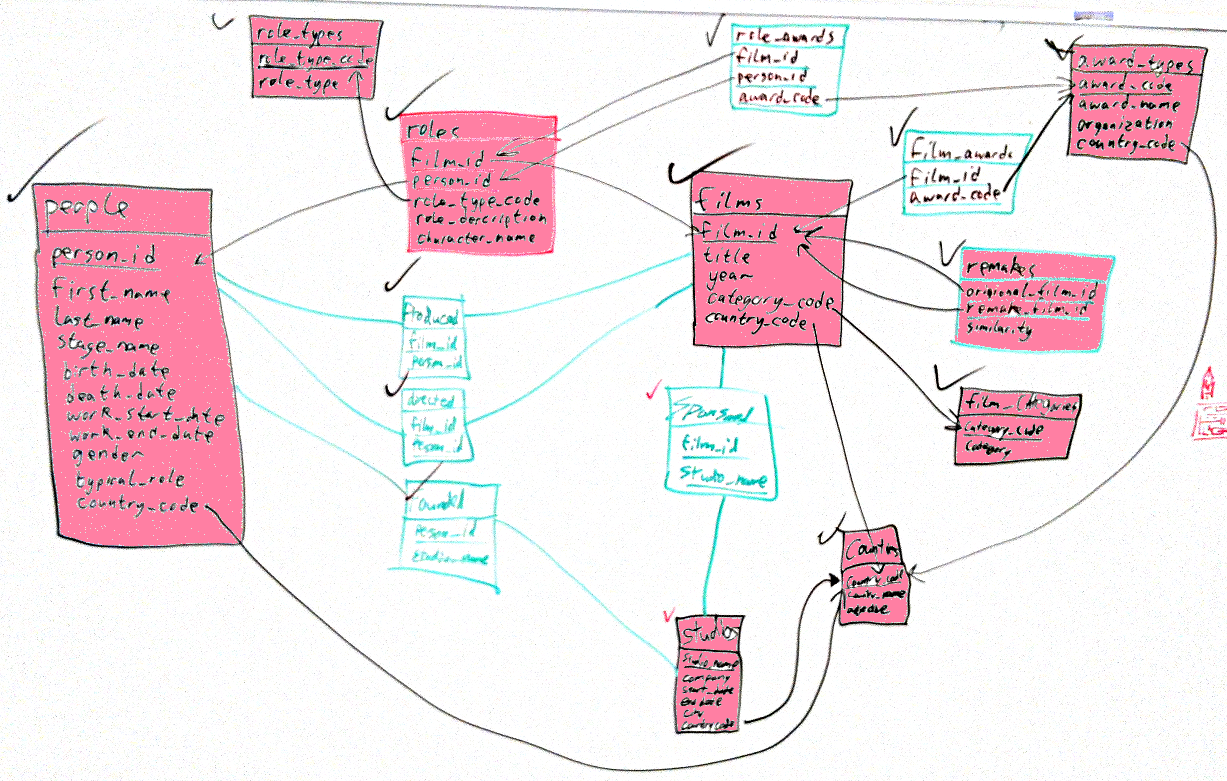
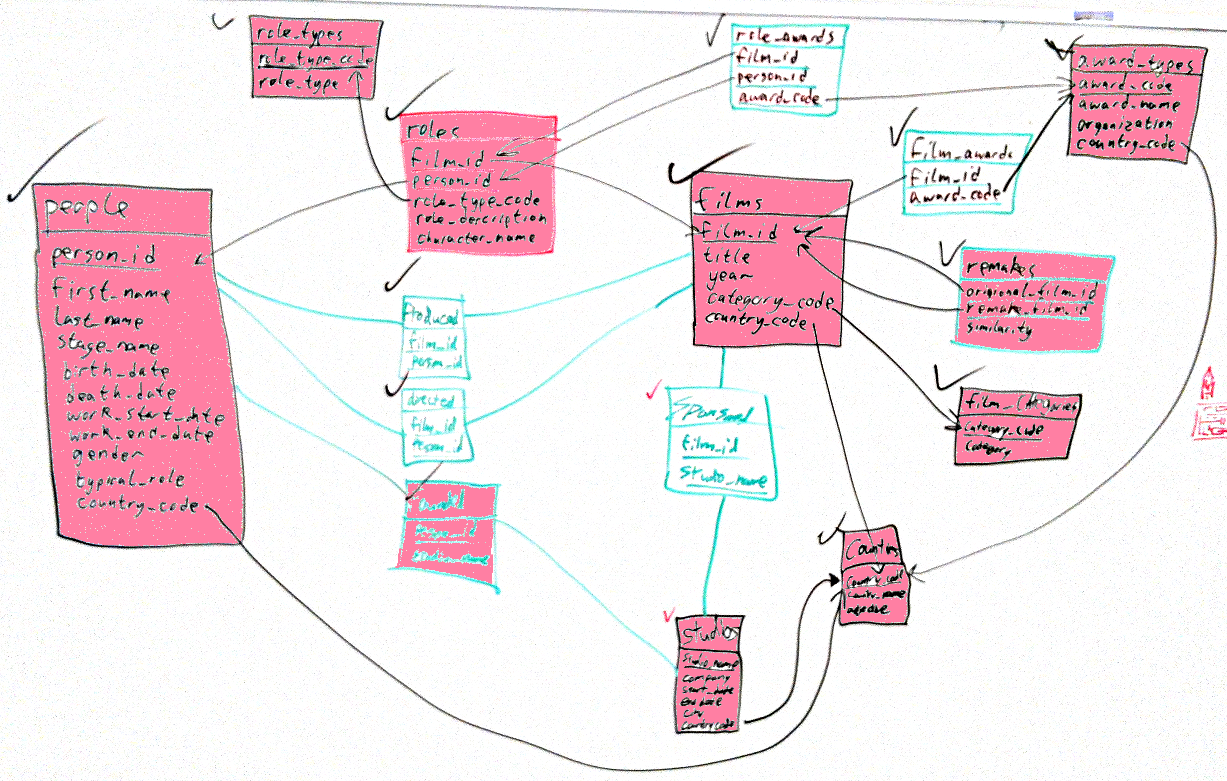
loaded founders

Changed region(s): [[0.3097, 0.6146, 0.4026, 0.7682]]

diff --git a/studios/load founders.py b/studios/load founders.py
@@ -17,7 +17,7 @@ founders = [('20th Cent.', 'Darryl Zanuck'), ('35mm Film Camera', 'Thomas Edison
 ('LionsGate', 'Mark Urman'), ('London Films', 'Alex Korda'), ('Lorimar', 'Lee Rich'), 
 ('Lubitsch', 'Ernst Lubitsch'), ('Malpaso', 'Clint Eastwood'), ('MGM', 'Bought Loews'), 
 ('MGM-U.A', 'Kirk Kerkorian'), ('Miramax', 'Weinstein'), ('NEF', 'J. Renoir'), ('NEF', 'Andre Zwobada'), 
-('NEF', 'Camille Froancois'), ('NEF', 'Olivier Billiou'), ('NEF', 'C. Renoir '), ('NWP', 'Corman'), 
+('NEF', 'Camille Froancois'), ('NEF', 'Olivier Billiou'), ('NEF', 'C. Renoir'), ('NWP', 'Corman'), 
 ('Paramount', 'William Wadworth Hodkinson'), ('Pathe 2', 'Pathe'), ('Paulist', 'Ellwood Bud Kieser'), 
 ('Ph\`enakistiscope', 'Plateau'), ('Phakinescope', 'Abadie Dutemps'), 
 ('Phenakistiscope', 'Charles Chevalier'), ('Photobioscope', 'Bonnelliot'), 
@@ -47,14 +47,38 @@ cursor.execute('delete from founded;')
 for pair in founders:
 
     studio_name = pair[0]
-    person_id = pair[1]
+    personName = pair[1]
+    personNameSplit = personName.split(' ')
+    first_name = personNameSplit[0] if len(personNameSplit) > 1 else None
+    last_name = personNameSplit[len(personNameSplit) - 1]
 
-    
+    print(personName)
+    print(first_name, last_name)
+    sql = "select * from people where person_id like '%"+last_name[:5]+"%' or last_name like '"+last_name[:5]+"%'"
+    print(sql)
+    try:
+        cursor.execute(sql)
+        result = cursor.fetchall()
+        for record in result:
+            print(record)
+    except:
+        print(sys.exc_info()[1])
+    inp = input("enter id to use: ")
+    person_id = result[int(inp)-1][0] if inp.isdigit() else inp
+
+    try:
+        print(cursor.mogrify("insert into people values (%s, %s, %s, NULL, NULL, NULL, NULL, NULL, NULL, NULL, NULL)", (person_id, first_name, last_name)))
+        cursor.execute("insert into people values (%s, %s, %s, NULL, NULL, NULL, NULL, NULL, NULL, NULL, NULL)", (person_id, first_name, last_name))
+    except:
+        print(sys.exc_info()[1])
     
     try:
+        print(cursor.mogrify("insert into founded values (%s, %s)", (studio_name, person_id)))
         cursor.execute("insert into founded values (%s, %s)", (studio_name, person_id))
     except:
         print(sys.exc_info()[1])
+
+    print()
 
 cursor.close()
 conn.close()
